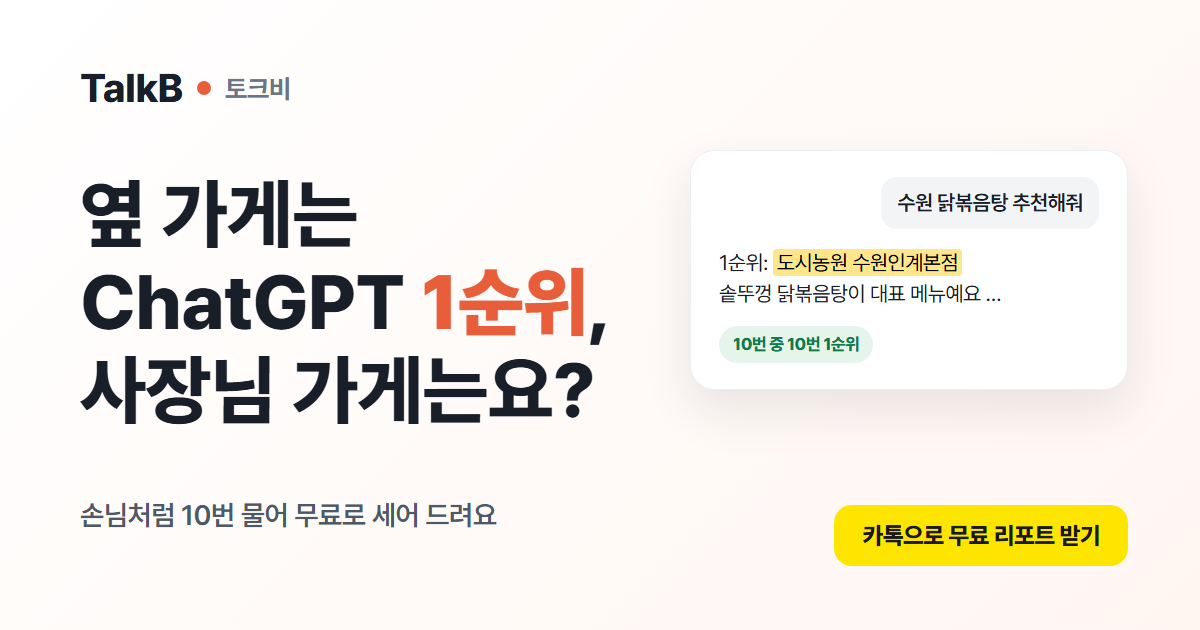
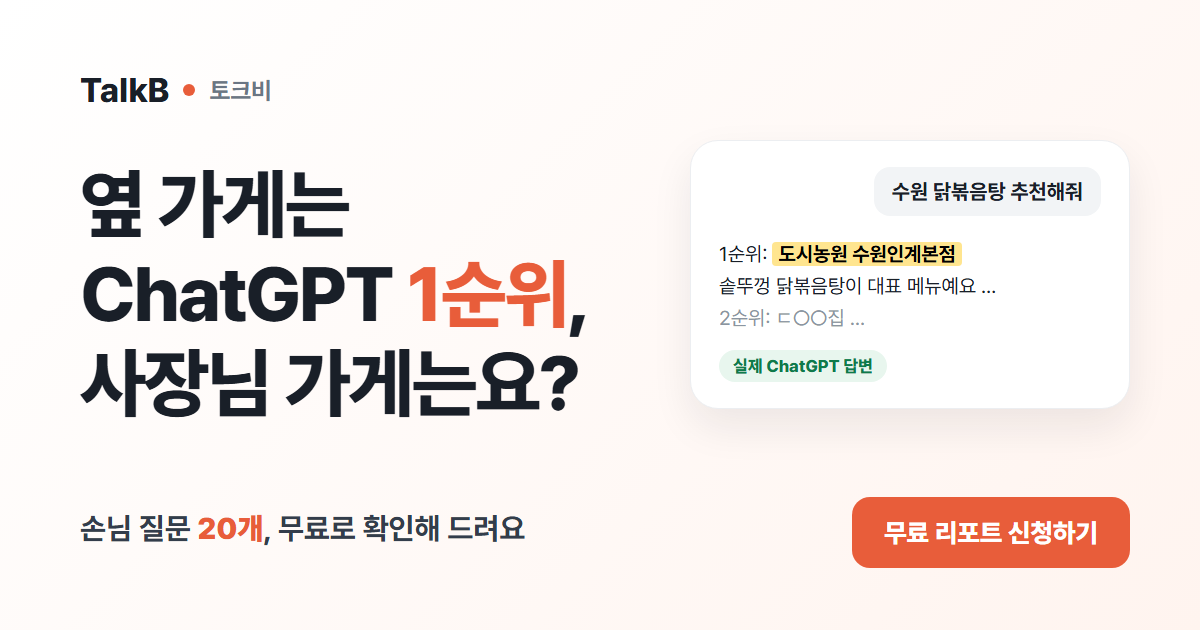
feat(랜딩): OG 이미지·미리보기 문구 갱신(질문 20개 무료 확인 · 무료 리포트 신청하기 · 카톡 문구 제거)

diff --git a/index.html b/index.html
@@ -18,7 +18,7 @@
 <meta name="format-detection" content="telephone=no">
 
 <title>토크비(TalkB) · 식당 ChatGPT 추천 노출 관리 서비스</title>
-<meta name="description" content="토크비(TalkB)는 손님이 AI에 맛집을 물어볼 때 우리 가게가 추천되도록 돕는 식당 전용 서비스입니다. 매주 손님 질문을 실제 ChatGPT에 물어 확인하고, 가게 정보 정리·보강과 월간 리포트까지 맡습니다. 라이트 월 190,000원부터(VAT 별도), 카카오톡으로 상담하세요.">
+<meta name="description" content="토크비(TalkB)는 손님이 AI에 맛집을 물어볼 때 우리 가게가 추천되도록 돕는 식당 전용 서비스입니다. 매주 손님 질문을 실제 ChatGPT에 물어 확인하고, 가게 정보 정리·보강과 월간 리포트까지 맡습니다. 라이트 월 190,000원부터(VAT 별도), 무료 리포트로 먼저 확인해 보세요.">
 <meta name="author" content="(주)티앤에스컴퍼니 · TalkB">
 <meta name="robots" content="index, follow, max-snippet:-1, max-image-preview:large">
 <meta name="facebook-domain-verification" content="hi2jqt6iwhyz2hury1ejn5zhfp0zh9" />
@@ -28,17 +28,17 @@
 <meta property="og:type" content="website">
 <meta property="og:url" content="https://talkb.co.kr/">
 <meta property="og:title" content="옆 가게는 ChatGPT 1순위, 사장님 가게는요?">
-<meta property="og:description" content="손님 질문을 10번씩 물어 우리 가게가 몇 번 나오는지 세어 드려요. 카톡으로 플레이스 링크만 보내면 무료 리포트.">
-<meta property="og:image" content="https://talkb.co.kr/og-image.png?v=4">
+<meta property="og:description" content="손님이 물을 만한 질문 20개를 ChatGPT에 물어 우리 가게가 나오는지 무료로 확인해 드려요. 플레이스 링크와 연락처만 남기면 담당자가 결과를 설명해 드려요.">
+<meta property="og:image" content="https://talkb.co.kr/og-image.png?v=5">
 <meta property="og:image:width" content="1200">
 <meta property="og:image:height" content="630">
-<meta property="og:image:alt" content="토크비 · 음식점 ChatGPT 추천 관리">
+<meta property="og:image:alt" content="옆 가게는 ChatGPT 1순위, 사장님 가게는요? 손님 질문 20개 무료 확인">
 <meta property="og:site_name" content="TalkB 토크비">
 <meta property="og:locale" content="ko_KR">
 <meta name="twitter:card" content="summary_large_image">
 <meta name="twitter:title" content="옆 가게는 ChatGPT 1순위, 사장님 가게는요?">
-<meta name="twitter:description" content="손님 질문을 10번씩 물어 우리 가게가 몇 번 나오는지 세어 드려요. 카톡으로 플레이스 링크만 보내면 무료 리포트.">
-<meta name="twitter:image" content="https://talkb.co.kr/og-image.png?v=4">
+<meta name="twitter:description" content="손님이 물을 만한 질문 20개를 ChatGPT에 물어 우리 가게가 나오는지 무료로 확인해 드려요. 플레이스 링크와 연락처만 남기면 담당자가 결과를 설명해 드려요.">
+<meta name="twitter:image" content="https://talkb.co.kr/og-image.png?v=5">
 
 <link rel="icon" type="image/svg+xml" href="/images/brand/talkb-symbol.svg">
 <link rel="icon" type="image/png" sizes="32x32" href="/images/brand/favicon-32.png">
@@ -225,7 +225,7 @@
 }
 </script>
 <script type="application/ld+json">
-{ "@context": "https://schema.org", "@type": "WebPage", "@id": "https://talkb.co.kr/#webpage", "url": "https://talkb.co.kr/", "name": "토크비(TalkB) · 식당 ChatGPT 추천 노출 관리 서비스", "description": "토크비(TalkB)는 손님이 AI에 맛집을 물어볼 때 우리 가게가 추천되도록 돕는 식당 전용 서비스입니다. 매주 손님 질문을 실제 ChatGPT에 물어 확인하고, 가게 정보 정리·보강과 월간 리포트까지 맡습니다. 라이트 월 190,000원부터(VAT 별도), 카카오톡으로 상담하세요.", "inLanguage": "ko", "isPartOf": { "@id": "https://talkb.co.kr/#website" }, "about": { "@id": "https://talkb.co.kr/#service" }, "publisher": { "@id": "https://talkb.co.kr/#org" }, "dateModified": "2026-10-12T00:30:02.774Z", "primaryImageOfPage": "https://talkb.co.kr/og-image.png?v=4" }
+{ "@context": "https://schema.org", "@type": "WebPage", "@id": "https://talkb.co.kr/#webpage", "url": "https://talkb.co.kr/", "name": "토크비(TalkB) · 식당 ChatGPT 추천 노출 관리 서비스", "description": "토크비(TalkB)는 손님이 AI에 맛집을 물어볼 때 우리 가게가 추천되도록 돕는 식당 전용 서비스입니다. 매주 손님 질문을 실제 ChatGPT에 물어 확인하고, 가게 정보 정리·보강과 월간 리포트까지 맡습니다. 라이트 월 190,000원부터(VAT 별도), 카카오톡으로 상담하세요.", "inLanguage": "ko", "isPartOf": { "@id": "https://talkb.co.kr/#website" }, "about": { "@id": "https://talkb.co.kr/#service" }, "publisher": { "@id": "https://talkb.co.kr/#org" }, "dateModified": "2026-10-12T00:30:02.774Z", "primaryImageOfPage": "https://talkb.co.kr/og-image.png?v=5" }
 </script>
 <script type="application/ld+json">
 { "@context": "https://schema.org", "@type": "WebSite", "@id": "https://talkb.co.kr/#website", "name": "토크비", "alternateName": ["TalkB", "토크비(TalkB)"], "url": "https://talkb.co.kr/", "publisher": { "@id": "https://talkb.co.kr/#org" } }

diff --git a/index.template.html b/index.template.html
@@ -18,7 +18,7 @@
 <meta name="format-detection" content="telephone=no">
 
 <title>토크비(TalkB) · 식당 ChatGPT 추천 노출 관리 서비스</title>
-<meta name="description" content="토크비(TalkB)는 손님이 AI에 맛집을 물어볼 때 우리 가게가 추천되도록 돕는 식당 전용 서비스입니다. 매주 손님 질문을 실제 ChatGPT에 물어 확인하고, 가게 정보 정리·보강과 월간 리포트까지 맡습니다. 라이트 월 190,000원부터(VAT 별도), 카카오톡으로 상담하세요.">
+<meta name="description" content="토크비(TalkB)는 손님이 AI에 맛집을 물어볼 때 우리 가게가 추천되도록 돕는 식당 전용 서비스입니다. 매주 손님 질문을 실제 ChatGPT에 물어 확인하고, 가게 정보 정리·보강과 월간 리포트까지 맡습니다. 라이트 월 190,000원부터(VAT 별도), 무료 리포트로 먼저 확인해 보세요.">
 <meta name="author" content="(주)티앤에스컴퍼니 · TalkB">
 <meta name="robots" content="index, follow, max-snippet:-1, max-image-preview:large">
 <meta name="facebook-domain-verification" content="hi2jqt6iwhyz2hury1ejn5zhfp0zh9" />
@@ -28,17 +28,17 @@
 <meta property="og:type" content="website">
 <meta property="og:url" content="https://talkb.co.kr/">
 <meta property="og:title" content="옆 가게는 ChatGPT 1순위, 사장님 가게는요?">
-<meta property="og:description" content="손님 질문을 10번씩 물어 우리 가게가 몇 번 나오는지 세어 드려요. 카톡으로 플레이스 링크만 보내면 무료 리포트.">
-<meta property="og:image" content="https://talkb.co.kr/og-image.png?v=4">
+<meta property="og:description" content="손님이 물을 만한 질문 20개를 ChatGPT에 물어 우리 가게가 나오는지 무료로 확인해 드려요. 플레이스 링크와 연락처만 남기면 담당자가 결과를 설명해 드려요.">
+<meta property="og:image" content="https://talkb.co.kr/og-image.png?v=5">
 <meta property="og:image:width" content="1200">
 <meta property="og:image:height" content="630">
-<meta property="og:image:alt" content="토크비 · 음식점 ChatGPT 추천 관리">
+<meta property="og:image:alt" content="옆 가게는 ChatGPT 1순위, 사장님 가게는요? 손님 질문 20개 무료 확인">
 <meta property="og:site_name" content="TalkB 토크비">
 <meta property="og:locale" content="ko_KR">
 <meta name="twitter:card" content="summary_large_image">
 <meta name="twitter:title" content="옆 가게는 ChatGPT 1순위, 사장님 가게는요?">
-<meta name="twitter:description" content="손님 질문을 10번씩 물어 우리 가게가 몇 번 나오는지 세어 드려요. 카톡으로 플레이스 링크만 보내면 무료 리포트.">
-<meta name="twitter:image" content="https://talkb.co.kr/og-image.png?v=4">
+<meta name="twitter:description" content="손님이 물을 만한 질문 20개를 ChatGPT에 물어 우리 가게가 나오는지 무료로 확인해 드려요. 플레이스 링크와 연락처만 남기면 담당자가 결과를 설명해 드려요.">
+<meta name="twitter:image" content="https://talkb.co.kr/og-image.png?v=5">
 
 <link rel="icon" type="image/svg+xml" href="/images/brand/talkb-symbol.svg">
 <link rel="icon" type="image/png" sizes="32x32" href="/images/brand/favicon-32.png">
@@ -225,7 +225,7 @@
 }
 </script>
 <script type="application/ld+json">
-{ "@context": "https://schema.org", "@type": "WebPage", "@id": "https://talkb.co.kr/#webpage", "url": "https://talkb.co.kr/", "name": "토크비(TalkB) · 식당 ChatGPT 추천 노출 관리 서비스", "description": "토크비(TalkB)는 손님이 AI에 맛집을 물어볼 때 우리 가게가 추천되도록 돕는 식당 전용 서비스입니다. 매주 손님 질문을 실제 ChatGPT에 물어 확인하고, 가게 정보 정리·보강과 월간 리포트까지 맡습니다. 라이트 월 190,000원부터(VAT 별도), 카카오톡으로 상담하세요.", "inLanguage": "ko", "isPartOf": { "@id": "https://talkb.co.kr/#website" }, "about": { "@id": "https://talkb.co.kr/#service" }, "publisher": { "@id": "https://talkb.co.kr/#org" }, "dateModified": "{{updatedAt}}", "primaryImageOfPage": "https://talkb.co.kr/og-image.png?v=4" }
+{ "@context": "https://schema.org", "@type": "WebPage", "@id": "https://talkb.co.kr/#webpage", "url": "https://talkb.co.kr/", "name": "토크비(TalkB) · 식당 ChatGPT 추천 노출 관리 서비스", "description": "토크비(TalkB)는 손님이 AI에 맛집을 물어볼 때 우리 가게가 추천되도록 돕는 식당 전용 서비스입니다. 매주 손님 질문을 실제 ChatGPT에 물어 확인하고, 가게 정보 정리·보강과 월간 리포트까지 맡습니다. 라이트 월 190,000원부터(VAT 별도), 카카오톡으로 상담하세요.", "inLanguage": "ko", "isPartOf": { "@id": "https://talkb.co.kr/#website" }, "about": { "@id": "https://talkb.co.kr/#service" }, "publisher": { "@id": "https://talkb.co.kr/#org" }, "dateModified": "{{updatedAt}}", "primaryImageOfPage": "https://talkb.co.kr/og-image.png?v=5" }
 </script>
 <script type="application/ld+json">
 { "@context": "https://schema.org", "@type": "WebSite", "@id": "https://talkb.co.kr/#website", "name": "토크비", "alternateName": ["TalkB", "토크비(TalkB)"], "url": "https://talkb.co.kr/", "publisher": { "@id": "https://talkb.co.kr/#org" } }
